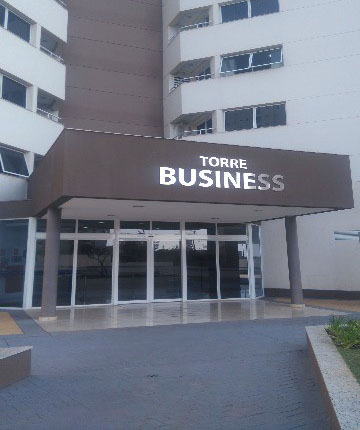
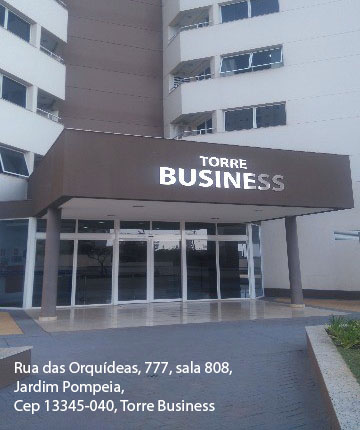
Release

Changed region(s): [[0.0306, 0.8163, 0.6417, 0.9674]]

diff --git a/quemsomos.html b/quemsomos.html
@@ -22,7 +22,6 @@
     <header class="o-header">
         <div class="logo">
             <img src="./img/GasparettoJurisLogo.png">
-            <h4>Gasparetto Juris</h4>
         </div>
         <div class="options">
             <img id="btnDropDown" src="./img/dropdown.png">
@@ -42,11 +41,11 @@
             <img class = "rounded-perfil" src="./img/perfil.jpeg"/>
             <h4>Dra. Karoline Gasparetto</h4>
             <p style="color: black;">OAB 297.291/SP</p>
-            <p>Pós-graduada pela Escola Paulista de Direito (EPD), ainda conta com cursos complementares de Direito Imobiliário pela EBRADI e UNIVERSO CONDOMINIAL,<br> assim como diversas especializações, inclusive está se formando em Constelações Sistêmicas, com o intuito de oferecer não apenas soluções jurídicas, mas também terapêuticas.</p>
+            <p>Pós-graduada em Direito Imobiliário pela Escola Paulista de Direito (EPD), pós-graduanda em Direito Civil e direito Processual Civil pela Faculdade Legale, ainda conta com diversas especializações em Direito Condominial,<br> inclusive está se formando em Constelações Sistêmicas, com o intuito de oferecer não apenas soluções jurídicas, mas também terapêuticas.</p>
         </div>
         <!-- <iframe style="padding: 5px;" src="https://www.google.com/maps/embed?pb=!1m18!1m12!1m3!1d3670.0432307987144!2d-47.22593658450234!3d-23.09551325044!2m3!1f0!2f0!3f0!3m2!1i1024!2i768!4f13.1!3m3!1m2!1s0x94c8b34df2c56963%3A0xd2e5636ebe722fca!2sR.%20das%20Orqu%C3%ADdeas%2C%20777%20-%20808%20-%20Vila%20Bergamo%2C%20Indaiatuba%20-%20SP%2C%2013345-040!5e0!3m2!1spt-BR!2sbr!4v1643839027689!5m2!1spt-BR!2sbr" width="100%" height="400px" style="border:0;" allowfullscreen="" loading="lazy"></iframe> -->
         <div class="torreBusiness">
-            <img style="margin: auto;" src="./img/torreBusinessCard.jpg"/>
+            <img style="margin: auto;" src="./img/torrebusiness.jpg"/>
         </div>
     </main>
     <footer class="o-footer">

diff --git a/Especialidades.html b/Especialidades.html
@@ -21,7 +21,6 @@
     <header class="o-header">
         <div class="logo">
             <img src="./img/GasparettoJurisLogo.png">
-            <h4>Gasparetto Juris</h4>
         </div>
         <div class="options">
             <img id="btnDropDown" src="./img/dropdown.png">

diff --git a/index.html b/index.html
@@ -22,7 +22,6 @@
     <header class="o-header">
         <div class="logo">
             <img src="./img/GasparettoJurisLogo.png">
-            <h4>Gasparetto Juris</h4>
         </div>
         <div class="options">
             <img id="btnDropDown" src="./img/dropdown.png">
